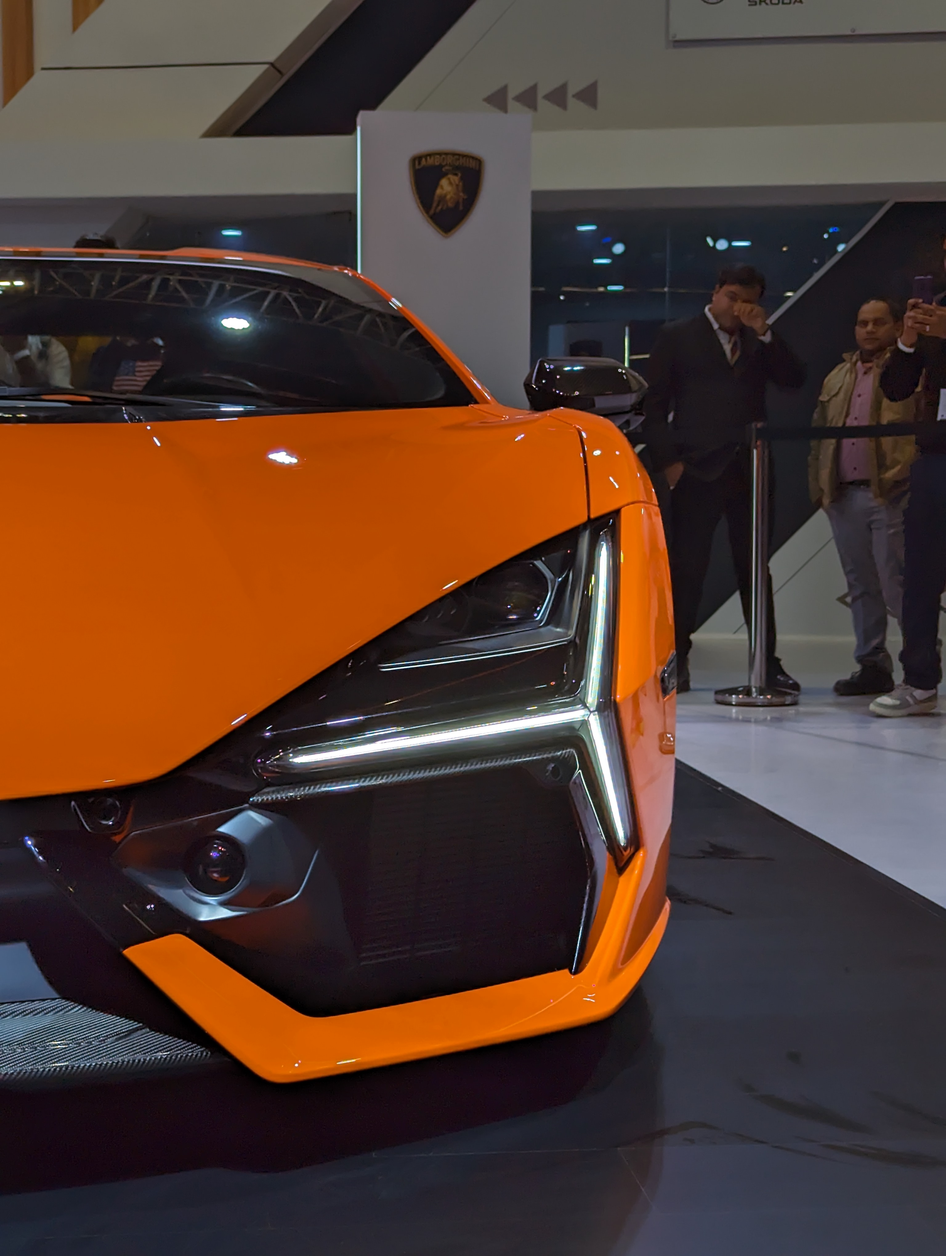
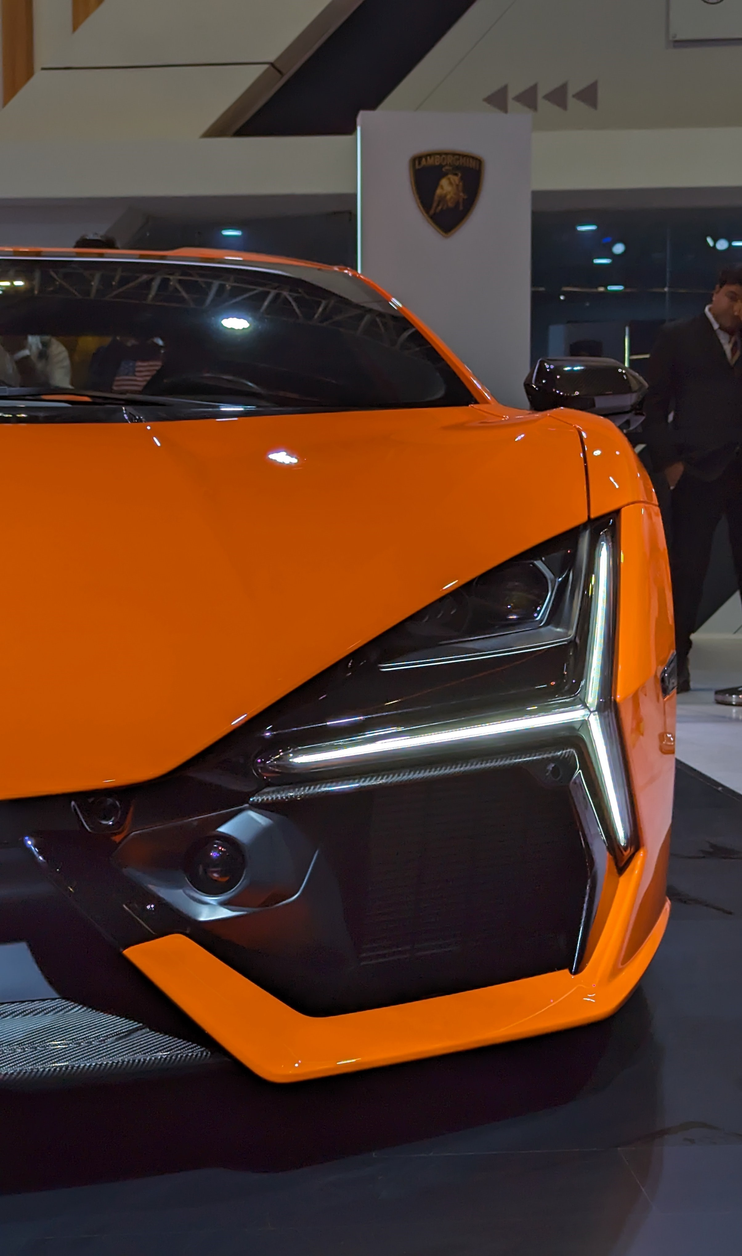
Gallery Section almost complete

diff --git a/src/Components/Gallery/index.scss b/src/Components/Gallery/index.scss
@@ -1,0 +1,41 @@
+.Image1{
+    position: absolute;
+    height: 400px;
+    margin-top: 20px;
+    left: 10rem;
+    border-radius: 30px;
+    box-shadow: 6px 2px 20px #4b4b4b;
+
+    &:hover{
+        transform: scale(1.01);
+        transition: 0.6s;
+    }
+}
+
+.Image2{
+    position: absolute;
+    height: 400px;
+    margin-top: 20rem;
+    left: 33.5rem;
+    border-radius: 30px;
+    box-shadow: 6px 2px 20px #4b4b4b;
+
+    &:hover{
+        transform: scale(1.01);
+        transition: 0.6s;
+    }
+}
+
+.Image3{
+    position: absolute;
+    height: 405px;
+    margin-top: 20px;
+    left: 58.5rem;
+    border-radius: 30px;
+    box-shadow: 6px 2px 20px #4b4b4b;
+
+    &:hover{
+        transform: scale(1.01);
+        transition: 0.6s;
+    }
+}

diff --git a/src/Components/Gallery/index.js b/src/Components/Gallery/index.js
@@ -1,8 +1,15 @@
 import "./index.scss"
+import Image1 from "../../assets/images/PXL_20240206_122231431.jpg"
+import Image2 from "../../assets/images/PXL_20240203_092223168.jpg"
+import Image3 from "../../assets/images/PXL_20240203_091834646.jpg"
 
 const Gallery = () => {
     return(
-        <> Hello </>
+        <>
+        <img className="Image1" src={Image1} alt="Image1"></img>
+        <img className="Image2" src={Image2} alt="Image2"></img>
+        <img className="Image3" src={Image3} alt="Image3"></img>
+        </>
     )
 }
 

diff --git a/src/Components/About/index.scss b/src/Components/About/index.scss
@@ -204,6 +204,7 @@ p{
         @media screen and (max-width: 768px) {
                 opacity: 0;             
         }
+        
         width: 100%;
         height: 100%;
         margin-left: 40rem;

diff --git a/README.md b/README.md
@@ -1,3 +1,44 @@
-Portfolio - Prableen Singh 
+Portfolio - Prableen Singh created using ReactJS and its my first react project, below 
+are the steps mentioned on how to run this React App.
 
 
+# Getting Started with Create React App
+
+This project was bootstrapped with [Create React App](https://github.com/facebook/create-react-app).
+
+## Available Scripts
+
+In the project directory, you can run:
+
+### `npm start`
+
+Runs the app in the development mode.\
+Open [http://localhost:3000](http://localhost:3000) to view it in your browser.
+
+The page will reload when you make changes.\
+You may also see any lint errors in the console.
+
+### `npm test`
+
+Launches the test runner in the interactive watch mode.\
+See the section about [running tests](https://facebook.github.io/create-react-app/docs/running-tests) for more information.
+
+### `npm run build`
+
+Builds the app for production to the `build` folder.\
+It correctly bundles React in production mode and optimizes the build for the best performance.
+
+The build is minified and the filenames include the hashes.\
+Your app is ready to be deployed!
+
+See the section about [deployment](https://facebook.github.io/create-react-app/docs/deployment) for more information.
+
+### `npm run eject`
+
+**Note: this is a one-way operation. Once you `eject`, you can't go back!**
+
+If you aren't satisfied with the build tool and configuration choices, you can `eject` at any time. This command will remove the single build dependency from your project.
+
+Instead, it will copy all the configuration files and the transitive dependencies (webpack, Babel, ESLint, etc) right into your project so you have full control over them. All of the commands except `eject` will still work, but they will point to the copied scripts so you can tweak them. At this point you're on your own.
+
+You don't have to ever use `eject`. The curated feature set is suitable for small and middle deployments, and you shouldn't feel obligated to use this feature. However we understand that this tool wouldn't be useful if you couldn't customize it when you are ready for it.
